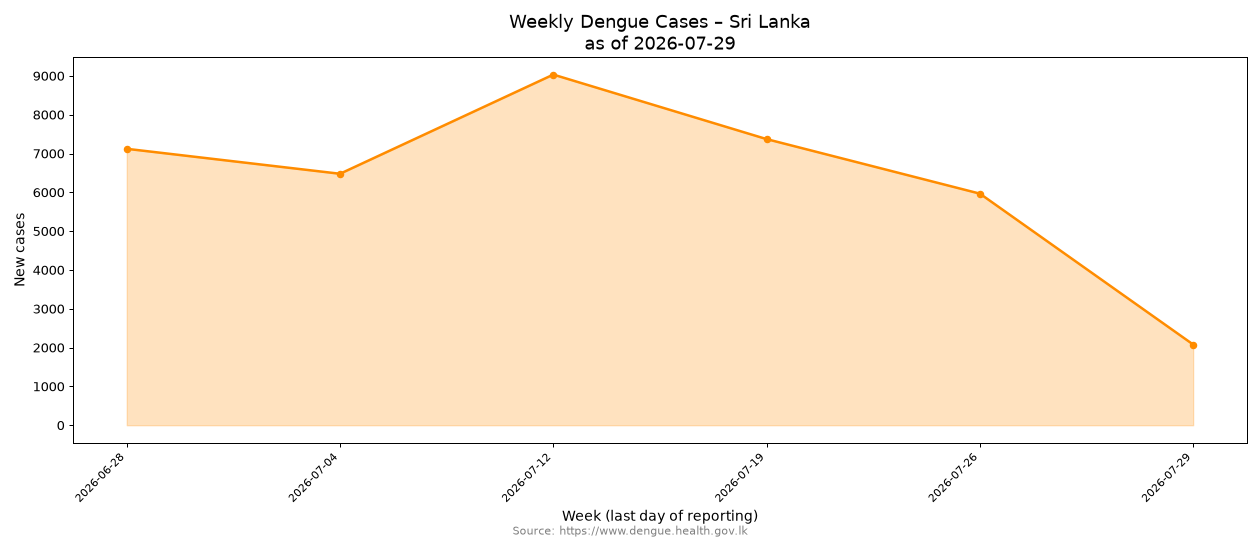
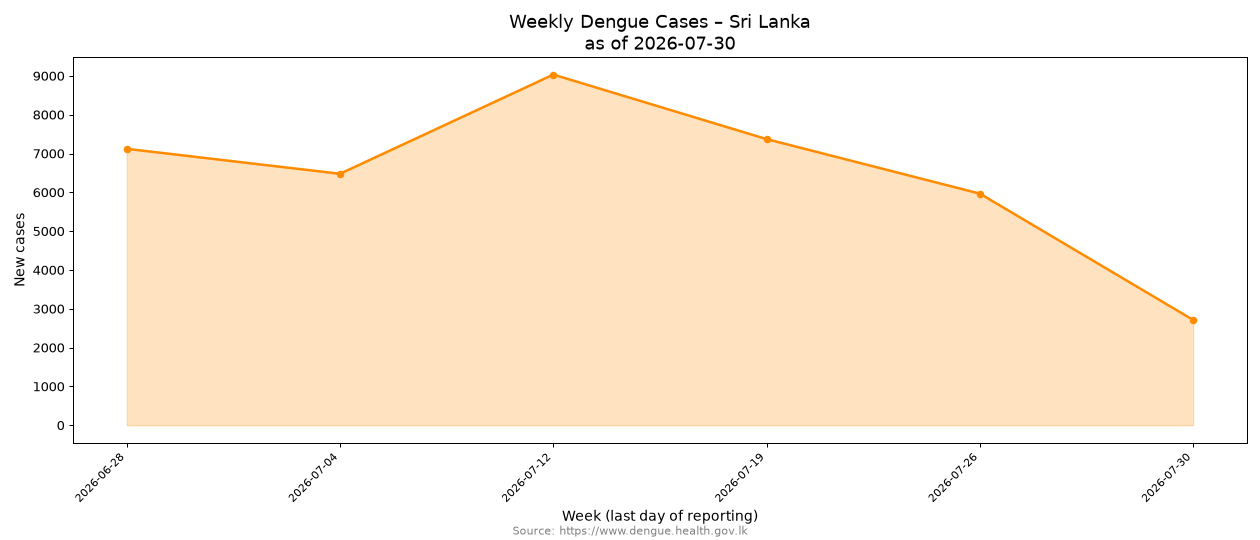
🤖 [pipeline.yml] 2026-07-31-0545

Changed region(s): [[0.8357, 0.4444, 0.9595, 0.6519], [0.7738, 0.3556, 0.8357, 0.4444], [0.5571, 0.0593, 0.5881, 0.0889]]

diff --git a/README.md b/README.md
@@ -287,6 +287,7 @@ As of 2026-07-19
 
 ### [National Dengue Control Unit - Daily Update](data/NDCUDaily)
 
+- [2026-07-30](data/NDCUDaily/2026/2026-07/2026-07-30)
 - [2026-07-29](data/NDCUDaily/2026/2026-07/2026-07-29)
 - [2026-07-28](data/NDCUDaily/2026/2026-07/2026-07-28)
 - [2026-07-27](data/NDCUDaily/2026/2026-07/2026-07-27)
